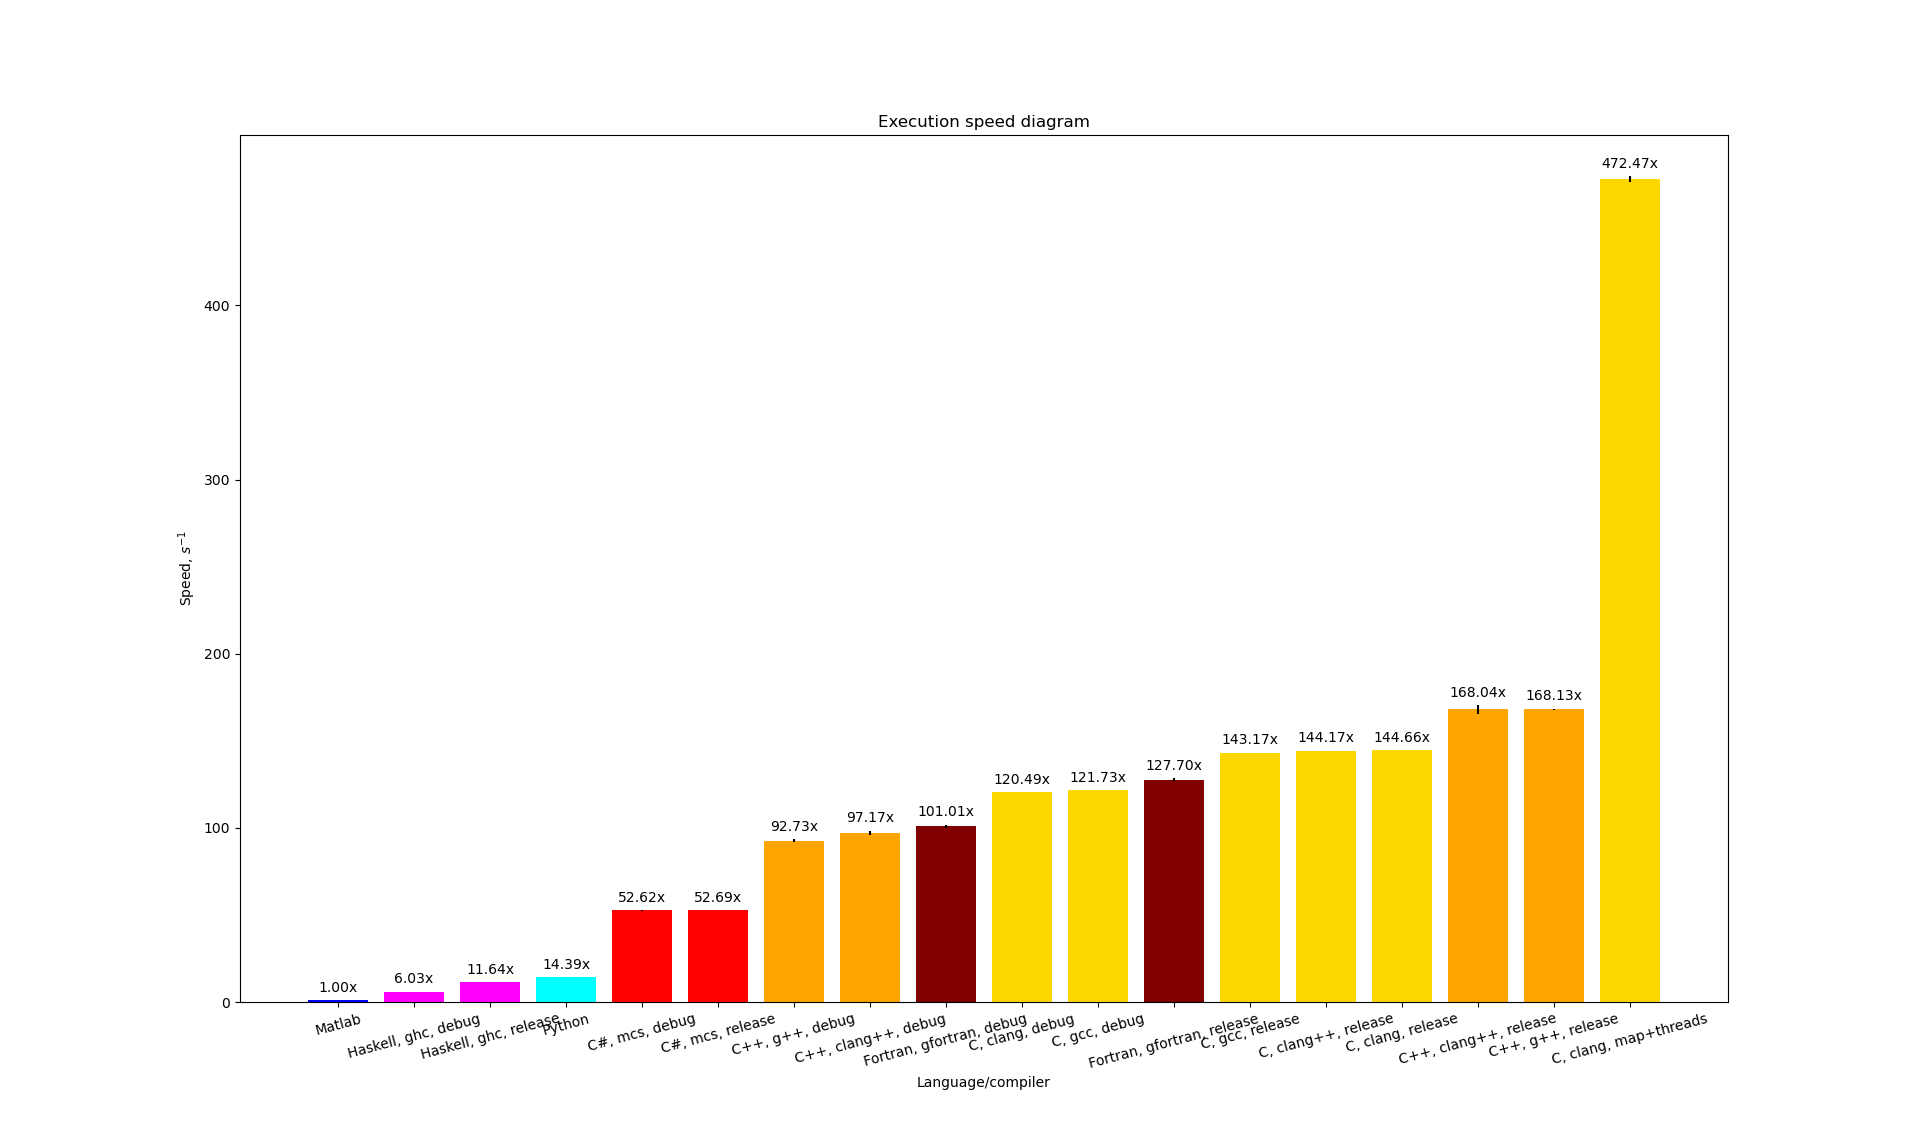
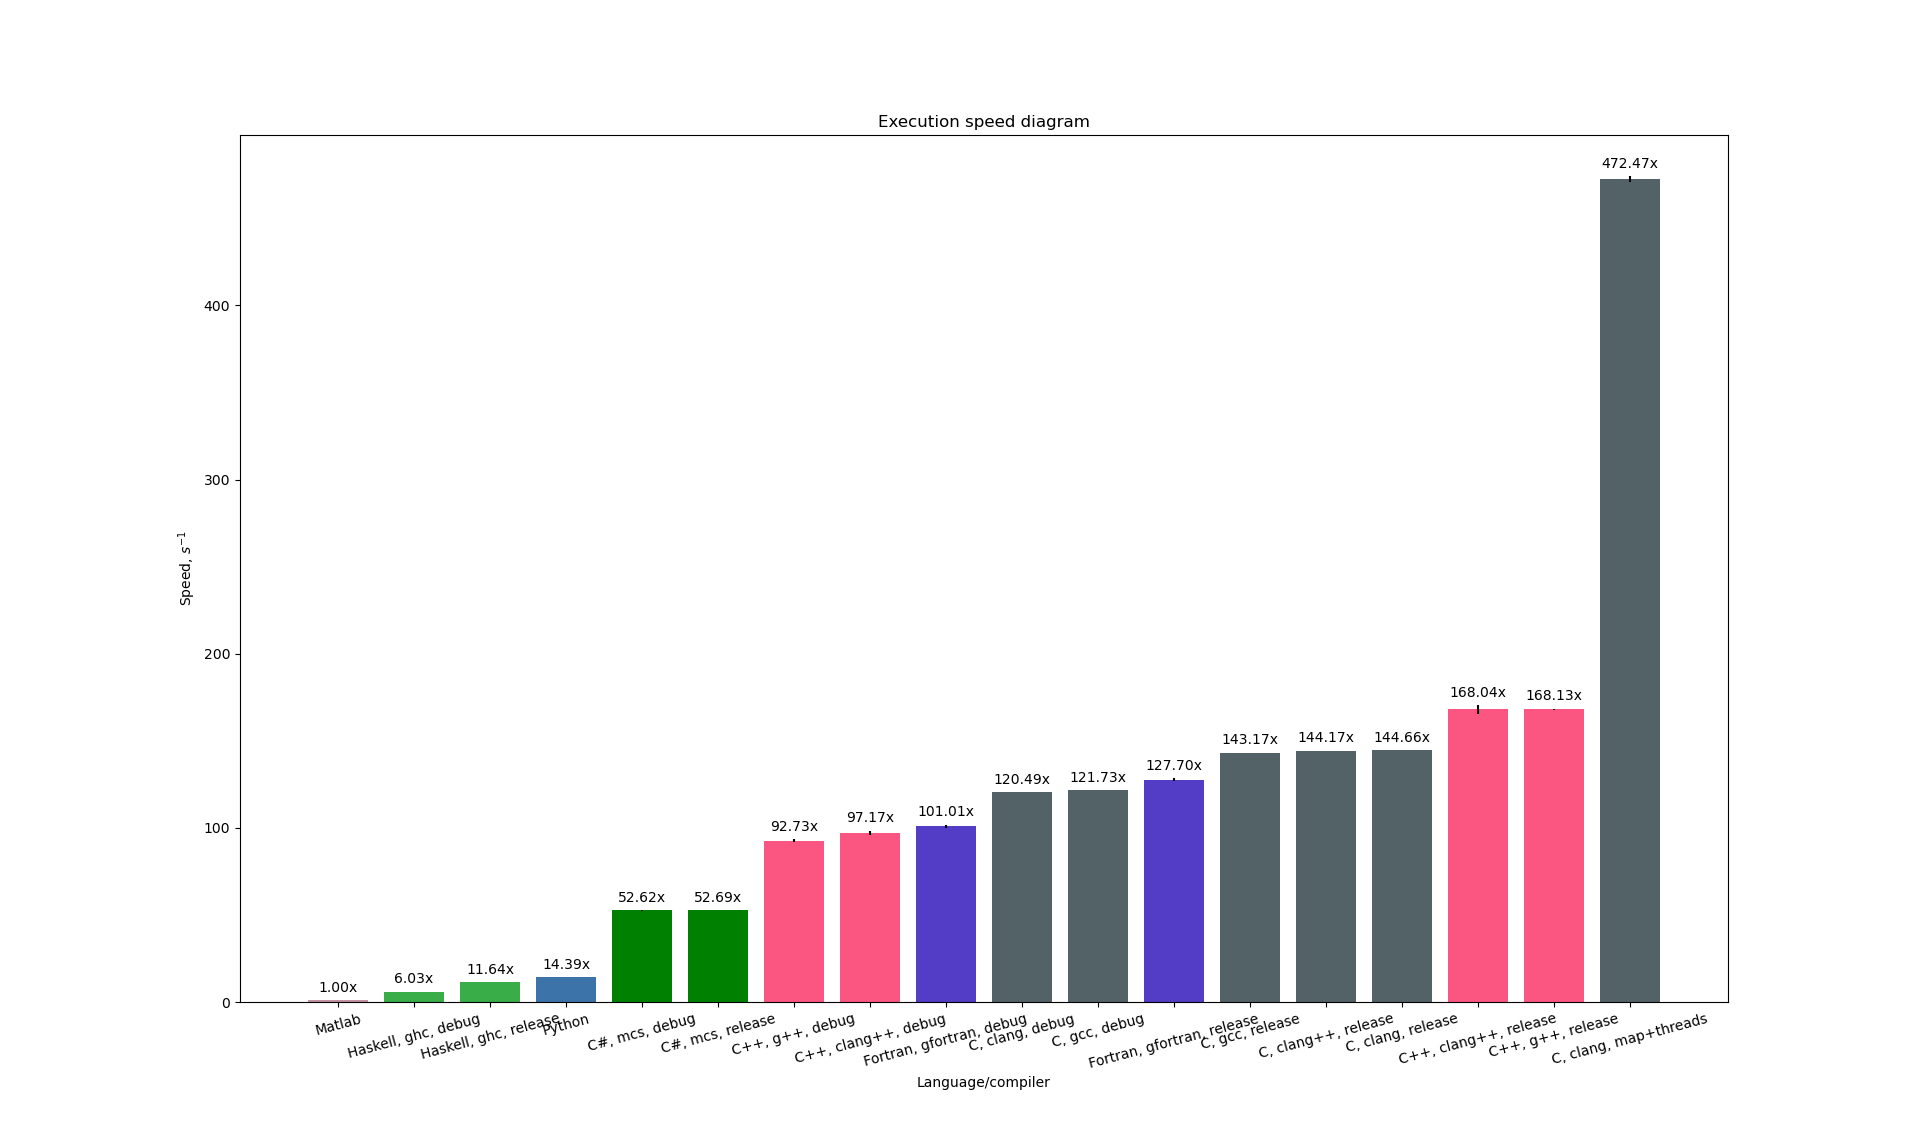
Using Github colors

Changed region(s): [[0.1875, 0.1554, 0.875, 0.9014]]

diff --git a/create_graphics.py b/create_graphics.py
@@ -2,6 +2,20 @@
 import matplotlib.pyplot as plt
 import sys, math
 
+def find_closest_color(desired_color):
+    import matplotlib.colors as mcolors
+    map = mcolors.get_named_colors_mapping()
+    desired_rgb = mcolors.to_rgb(desired_color)
+    closest_name = None
+    closest_distance = math.inf
+    for name, value in map.items():
+        rgb = mcolors.to_rgb(value)
+        distance = abs(desired_rgb[0] - rgb[0]) + abs(desired_rgb[1] - rgb[1]) + abs(desired_rgb[2] - rgb[2])
+        if distance < closest_distance:
+            closest_distance = distance
+            closest_name = name
+    return closest_name
+
 class Measurement:
     def __init__(self, label, filename):
         times = []
@@ -28,14 +42,15 @@ class Measurement:
         self.inv_deviation = math.sqrt(self.inv_variance)
 
         labels = label.split(", ")
-        if "C" in labels: self.color = "gold"
-        elif "C++" in labels: self.color = "orange"
-        elif "C#" in labels: self.color = "red"
-        elif "Fortran" in labels: self.color = "maroon"
-        elif "Haskell" in labels: self.color = "magenta"
-        elif "Python" in labels: self.color = "cyan"
-        elif "Matlab" in labels: self.color = "blue"
-        else: self.color = "black"
+        find_closest = True
+        if "C" in labels: self.color = "xkcd:gunmetal" if find_closest else "#555555"
+        elif "C++" in labels: self.color = "xkcd:warm pink" if find_closest else "#f34b7d"
+        elif "C#" in labels: self.color = "green" if find_closest else "#178600"
+        elif "Fortran" in labels: self.color = "xkcd:blue with a hint of purple" if find_closest else "#4d41b1"
+        elif "Haskell" in labels: self.color = "xkcd:medium green" if find_closest else "#29b544"
+        elif "Python" in labels: self.color = "xkcd:flat blue" if find_closest else "#3572a5"
+        elif "Matlab" in labels: self.color = "xkcd:light mauve" if find_closest else "#bb92ac"
+        else: self.color = "black" if find_closest else "#000000"
 
 class Graphics:
     def __init__(self):

diff --git a/README.md b/README.md
@@ -39,7 +39,6 @@ Kernel   6.10.10-zen1-x86_64
 ### Conclusions
  - C++ is faster than C (no comments)
  - C is faster than Fortran
- - Clang is faster than GCC
  - Haskell is terrible for everything algorithm-related
 
 ##### But where's the language that all 3.5 members of my cult use???
